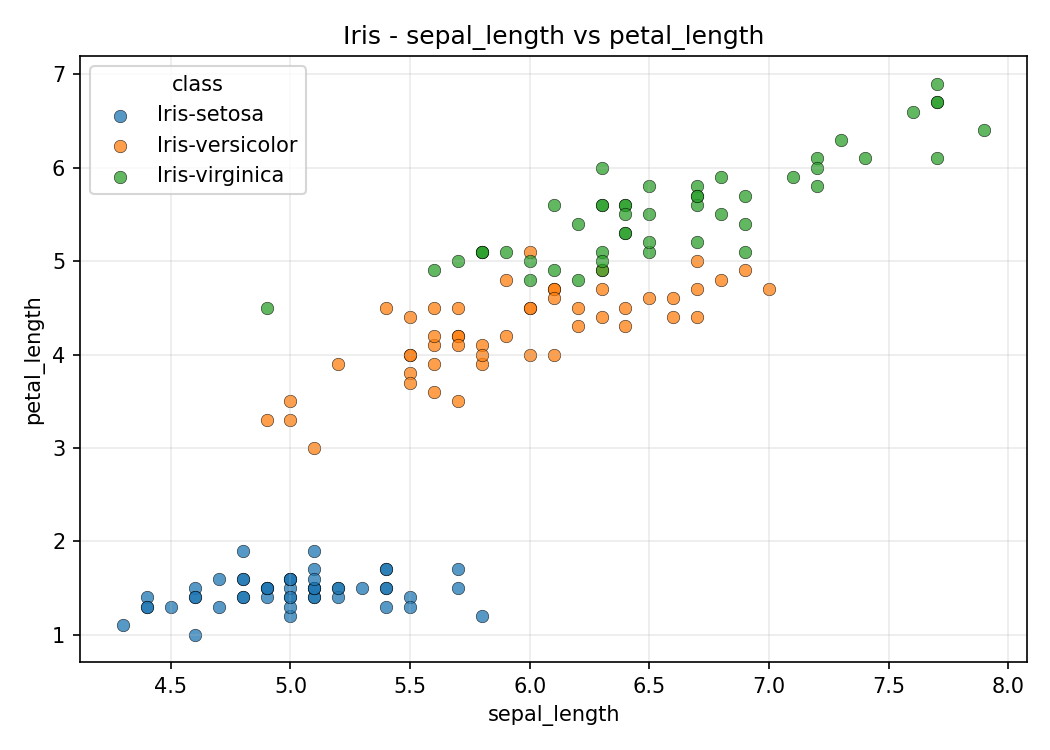
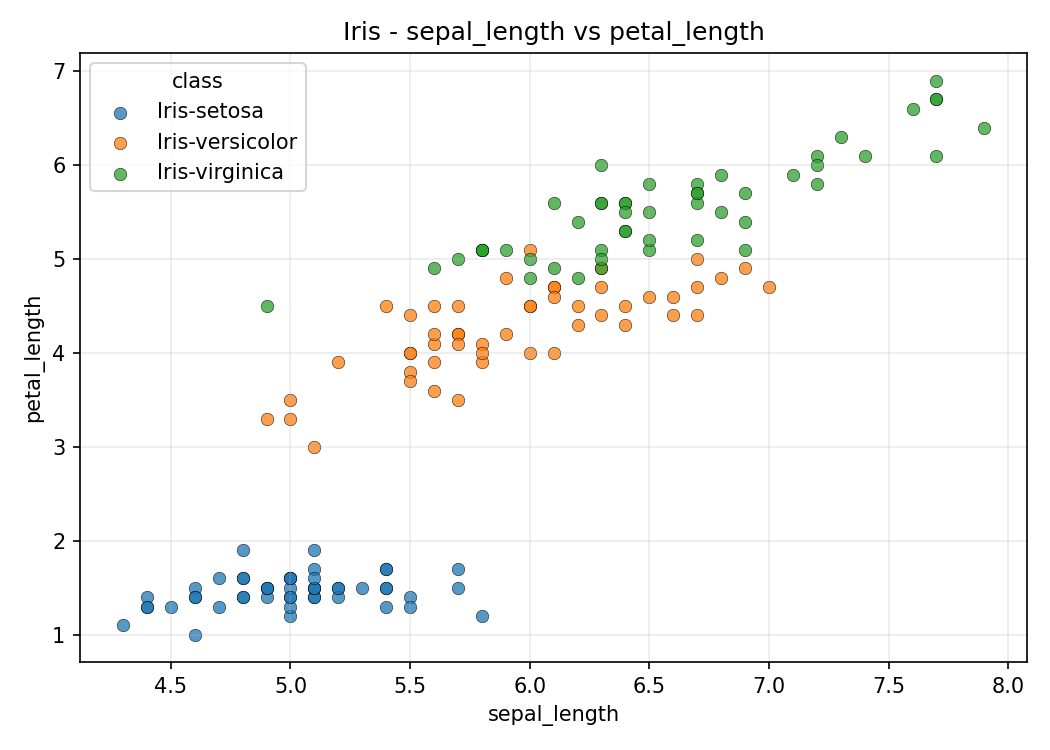
refactor A3 Ex2b iris visualizations

diff --git a/A3/src/ex2/b/iris_visualization.py b/A3/src/ex2/b/iris_visualization.py
@@ -1,12 +1,19 @@
-import matplotlib.pyplot as plt
+import pandas as pd
 
 from A3.src.ex2.utils.datasets import (
-    get_a3_root,
     get_dataset_config_by_id,
     load_dataset,
-    relative_to_project,
 )
-from A3.src.ex2.utils.output import save_dataframe_as_csv_and_markdown
+from A3.src.ex2.utils.visualization import (
+    create_class_distribution_plot,
+    create_scatter_plots,
+    get_class_distribution,
+)
+from A3.src.utils.paths import get_a3_root
+from A3.src.utils.tables import (
+    print_dataframe_summary,
+    save_dataframe_as_csv_and_latex,
+)
 
 
 FIGURES_DIR = get_a3_root() / "output" / "ex2" / "b" / "figures"
@@ -23,13 +30,14 @@ SCATTER_PAIRS = [
 ]
 
 CLASS_COLORS = {
-    "Iris-setosa": "#1f77b4",
-    "Iris-versicolor": "#ff7f0e",
-    "Iris-virginica": "#2ca02c",
+    "Iris-setosa": "tab:blue",
+    "Iris-versicolor": "tab:orange",
+    "Iris-virginica": "tab:green",
 }
 
 
 def load_visualization_dataset(dataset_id):
+    """Load the dataset selected for visualization."""
     dataset_config = get_dataset_config_by_id(dataset_id)
     dataframe = load_dataset(dataset_config)
     target_column = dataset_config["target_column"]
@@ -38,147 +46,89 @@ def load_visualization_dataset(dataset_id):
     return dataframe, target_column, dataset_name
 
 
-def get_class_color(class_name, color_index):
-    if class_name in CLASS_COLORS:
-        return CLASS_COLORS[class_name]
-
-    default_colors = plt.rcParams["axes.prop_cycle"].by_key()["color"]
-    return default_colors[color_index % len(default_colors)]
-
-
-def plot_scatter_by_class(
-    dataframe,
-    target_column,
-    dataset_name,
-    x_column,
-    y_column,
-    output_path,
-):
-    FIGURES_DIR.mkdir(parents=True, exist_ok=True)
-    figure, axis = plt.subplots(figsize=(7, 5))
-
-    class_names = sorted(dataframe[target_column].unique())
-    for color_index, class_name in enumerate(class_names):
-        class_rows = dataframe[dataframe[target_column] == class_name]
-        axis.scatter(
-            class_rows[x_column],
-            class_rows[y_column],
-            label=class_name,
-            color=get_class_color(class_name, color_index),
-            alpha=0.75,
-            edgecolors="black",
-            linewidths=0.3,
-        )
-
-    axis.set_title(f"{dataset_name} - {x_column} vs {y_column}")
-    axis.set_xlabel(x_column)
-    axis.set_ylabel(y_column)
-    axis.grid(True, alpha=0.25)
-    axis.legend(title=target_column)
-    figure.tight_layout()
-
-    figure.savefig(output_path, dpi=150)
-    plt.close(figure)
-
-    return output_path
-
-
-def create_scatter_plots(dataframe, target_column, dataset_name):
-    FIGURES_DIR.mkdir(parents=True, exist_ok=True)
-    output_paths = []
-
+def build_scatter_plot_index(dataset_name, target_column):
+    """Build the scatter plot index table."""
+    rows = []
     for x_column, y_column, file_suffix in SCATTER_PAIRS:
-        output_path = FIGURES_DIR / f"{OUTPUT_PREFIX}_{file_suffix}.png"
-        plot_scatter_by_class(
-            dataframe,
-            target_column,
-            dataset_name,
-            x_column,
-            y_column,
-            output_path,
+        rows.append(
+            {
+                "plot_file": f"{OUTPUT_PREFIX}_{file_suffix}.png",
+                "dataset_name": dataset_name,
+                "variable_x": x_column,
+                "variable_y": y_column,
+                "target_column": target_column,
+            }
         )
-        output_paths.append(output_path)
 
-    old_output_path = FIGURES_DIR / f"{OUTPUT_PREFIX}_ScatterPlots.png"
-    if old_output_path.exists():
-        old_output_path.unlink()
-
-    return output_paths
-
-
-def get_class_distribution(dataframe, target_column):
-    class_counts = dataframe[target_column].value_counts().sort_index()
-    return class_counts.rename_axis(target_column).reset_index(name="n_instances")
-
-
-def create_class_distribution_plot(
-    class_distribution,
-    target_column,
-    dataset_name,
-    output_path,
-):
-    FIGURES_DIR.mkdir(parents=True, exist_ok=True)
-    figure, axis = plt.subplots(figsize=(7, 4.5))
-
-    class_names = list(class_distribution[target_column])
-    axis.bar(
-        class_names,
-        class_distribution["n_instances"],
-        color=[
-            get_class_color(class_name, color_index)
-            for color_index, class_name in enumerate(class_names)
-        ],
-        edgecolor="black",
-        linewidth=0.5,
-    )
-    axis.set_title(f"{dataset_name} - número de instâncias por classe")
-    axis.set_xlabel(target_column)
-    axis.set_ylabel("número de instâncias")
-    axis.grid(axis="y", alpha=0.25)
-
-    figure.tight_layout()
-
-    figure.savefig(output_path, dpi=150)
-    plt.close(figure)
-
-    return output_path
+    return pd.DataFrame(rows)
 
 
 def save_class_distribution_table(class_distribution, dataset_name):
+    """Save the class distribution table as CSV and LaTeX."""
     csv_path = TABLES_DIR / f"{TABLE_PREFIX}_class_distribution.csv"
-    markdown_path = TABLES_DIR / f"{TABLE_PREFIX}_class_distribution.md"
+    tex_path = TABLES_DIR / f"{TABLE_PREFIX}_class_distribution.tex"
 
-    return save_dataframe_as_csv_and_markdown(
+    return save_dataframe_as_csv_and_latex(
         class_distribution,
         csv_path,
-        markdown_path,
+        tex_path,
         f"Distribuição das classes {dataset_name} - Exercício 2(b)",
+        "tab:ex2b-iris-class-distribution",
+    )
+
+
+def save_scatter_plot_index_table(scatter_plot_index):
+    """Save the scatter plot index table as CSV and LaTeX."""
+    csv_path = TABLES_DIR / f"{TABLE_PREFIX}_scatter_plot_index.csv"
+    tex_path = TABLES_DIR / f"{TABLE_PREFIX}_scatter_plot_index.tex"
+
+    return save_dataframe_as_csv_and_latex(
+        scatter_plot_index,
+        csv_path,
+        tex_path,
+        "Índice dos scatter plots do Iris - Exercício 2(b)",
+        "tab:ex2b-iris-scatter-plot-index",
     )
 
 
 def main():
+    """Generate the Iris visualizations for Ex.2(b)."""
     dataframe, target_column, dataset_name = load_visualization_dataset(DATASET_ID)
     class_distribution = get_class_distribution(dataframe, target_column)
+    scatter_plot_index = build_scatter_plot_index(dataset_name, target_column)
 
-    scatter_paths = create_scatter_plots(dataframe, target_column, dataset_name)
+    scatter_paths = create_scatter_plots(
+        dataframe,
+        target_column,
+        dataset_name,
+        SCATTER_PAIRS,
+        FIGURES_DIR,
+        OUTPUT_PREFIX,
+        CLASS_COLORS,
+    )
     bar_path = create_class_distribution_plot(
         class_distribution,
         target_column,
         dataset_name,
         FIGURES_DIR / f"{OUTPUT_PREFIX}_ClassDistribution.png",
+        CLASS_COLORS,
     )
-    csv_path, markdown_path = save_class_distribution_table(
+    distribution_csv_path, distribution_tex_path = save_class_distribution_table(
         class_distribution,
         dataset_name,
     )
+    index_csv_path, index_tex_path = save_scatter_plot_index_table(scatter_plot_index)
 
-    print(class_distribution.to_string(index=False))
+    print_dataframe_summary("Distribuição das classes - Iris", class_distribution)
+    print_dataframe_summary("Índice dos scatter plots - Iris", scatter_plot_index)
     print()
     for scatter_path in scatter_paths:
-        print(f"Scatter-plot guardado em: {relative_to_project(scatter_path)}")
-    print(f"Gráfico de barras guardado em: {relative_to_project(bar_path)}")
-    print(f"CSV guardado em: {relative_to_project(csv_path)}")
-    print(f"Markdown guardado em: {relative_to_project(markdown_path)}")
+        print(f"Scatter plot guardado em: {scatter_path.name}")
+    print(f"Gráfico de barras guardado em: {bar_path.name}")
+    print(f"CSV distribuição guardado em: {distribution_csv_path.name}")
+    print(f"LaTeX distribuição guardado em: {distribution_tex_path.name}")
+    print(f"CSV índice guardado em: {index_csv_path.name}")
+    print(f"LaTeX índice guardado em: {index_tex_path.name}")
 
 
 if __name__ == "__main__":

diff --git a/A3/src/ex2/utils/visualization.py b/A3/src/ex2/utils/visualization.py
@@ -1,0 +1,120 @@
+import matplotlib.pyplot as plt
+
+from A3.src.utils.tables import ensure_parent_dir
+
+
+def get_class_color(class_name, color_index, class_colors=None):
+    """Return a plot color for one class."""
+    if class_colors and class_name in class_colors:
+        return class_colors[class_name]
+
+    default_colors = plt.rcParams["axes.prop_cycle"].by_key()["color"]
+    return default_colors[color_index % len(default_colors)]
+
+
+def plot_scatter_by_class(
+    dataframe,
+    target_column,
+    dataset_name,
+    x_column,
+    y_column,
+    output_path,
+    class_colors=None,
+):
+    """Save one scatter plot colored by class."""
+    ensure_parent_dir(output_path)
+    figure, axis = plt.subplots(figsize=(7, 5))
+
+    class_names = sorted(dataframe[target_column].unique())
+    for color_index, class_name in enumerate(class_names):
+        class_rows = dataframe[dataframe[target_column] == class_name]
+        axis.scatter(
+            class_rows[x_column],
+            class_rows[y_column],
+            label=class_name,
+            color=get_class_color(class_name, color_index, class_colors),
+            alpha=0.75,
+            edgecolors="black",
+            linewidths=0.3,
+        )
+
+    axis.set_title(f"{dataset_name} - {x_column} vs {y_column}")
+    axis.set_xlabel(x_column)
+    axis.set_ylabel(y_column)
+    axis.grid(True, alpha=0.25)
+    axis.legend(title=target_column)
+    figure.tight_layout()
+
+    figure.savefig(output_path, dpi=150)
+    plt.close(figure)
+
+    return output_path
+
+
+def create_scatter_plots(
+    dataframe,
+    target_column,
+    dataset_name,
+    scatter_pairs,
+    figures_dir,
+    output_prefix,
+    class_colors=None,
+):
+    """Create scatter plots for the selected variable pairs."""
+    output_paths = []
+
+    for x_column, y_column, file_suffix in scatter_pairs:
+        output_path = figures_dir / f"{output_prefix}_{file_suffix}.png"
+        plot_scatter_by_class(
+            dataframe,
+            target_column,
+            dataset_name,
+            x_column,
+            y_column,
+            output_path,
+            class_colors,
+        )
+        output_paths.append(output_path)
+
+    return output_paths
+
+
+def get_class_distribution(dataframe, target_column):
+    """Count instances by class."""
+    class_counts = dataframe[target_column].value_counts().sort_index()
+    return class_counts.rename_axis(target_column).reset_index(name="n_instances")
+
+
+def create_class_distribution_plot(
+    class_distribution,
+    target_column,
+    dataset_name,
+    output_path,
+    class_colors=None,
+):
+    """Save a class distribution bar chart."""
+    ensure_parent_dir(output_path)
+    figure, axis = plt.subplots(figsize=(7, 4.5))
+
+    class_names = list(class_distribution[target_column])
+    axis.bar(
+        class_names,
+        class_distribution["n_instances"],
+        color=[
+            get_class_color(class_name, color_index, class_colors)
+            for color_index, class_name in enumerate(class_names)
+        ],
+        edgecolor="black",
+        linewidth=0.5,
+    )
+    axis.set_title(f"{dataset_name} - número de instâncias por classe")
+    axis.set_xlabel(target_column)
+    axis.set_ylabel("número de instâncias")
+    axis.grid(axis="y", alpha=0.25)
+
+    figure.tight_layout()
+
+    figure.savefig(output_path, dpi=150)
+    plt.close(figure)
+
+    return output_path

diff --git a/A3/output/ex2/b/tables/2b_iris_scatter_plot_index.tex b/A3/output/ex2/b/tables/2b_iris_scatter_plot_index.tex
@@ -1,0 +1,14 @@
+\begin{table}[htbp]
+\centering
+\begin{tabular}{lllll}
+\hline
+plot\_file & dataset\_name & variable\_x & variable\_y & target\_column \\
+\hline
+2b\_Iris\_PetalLength\_PetalWidth.png & Iris & petal\_length & petal\_width & class \\
+2b\_Iris\_SepalLength\_SepalWidth.png & Iris & sepal\_length & sepal\_width & class \\
+2b\_Iris\_SepalLength\_PetalLength.png & Iris & sepal\_length & petal\_length & class \\
+\hline
+\end{tabular}
+\caption{Índice dos scatter plots do Iris - Exercício 2(b)}
+\label{tab:ex2b-iris-scatter-plot-index}
+\end{table}

diff --git a/A3/output/ex2/b/tables/2b_iris_class_distribution.tex b/A3/output/ex2/b/tables/2b_iris_class_distribution.tex
@@ -1,0 +1,14 @@
+\begin{table}[htbp]
+\centering
+\begin{tabular}{ll}
+\hline
+class & n\_instances \\
+\hline
+Iris-setosa & 50 \\
+Iris-versicolor & 50 \\
+Iris-virginica & 50 \\
+\hline
+\end{tabular}
+\caption{Distribuição das classes Iris - Exercício 2(b)}
+\label{tab:ex2b-iris-class-distribution}
+\end{table}
